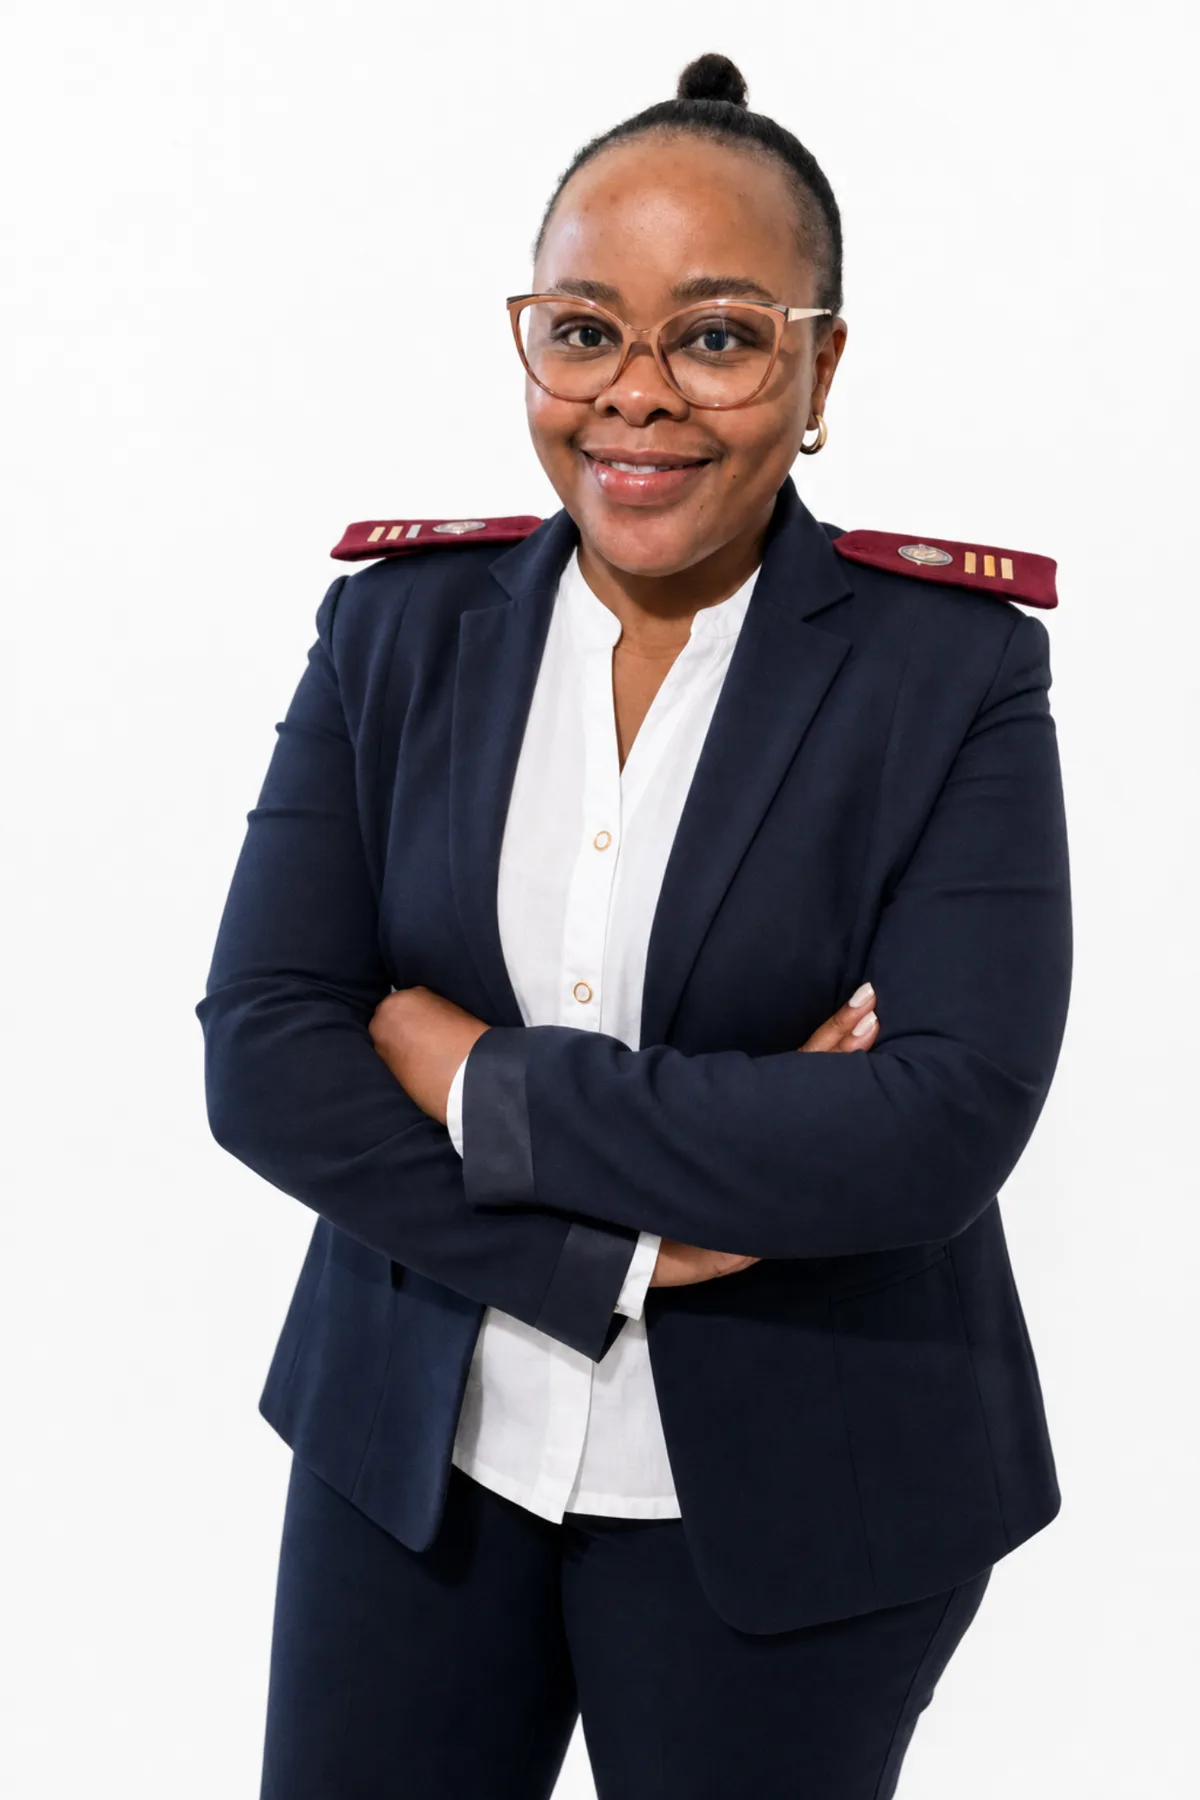
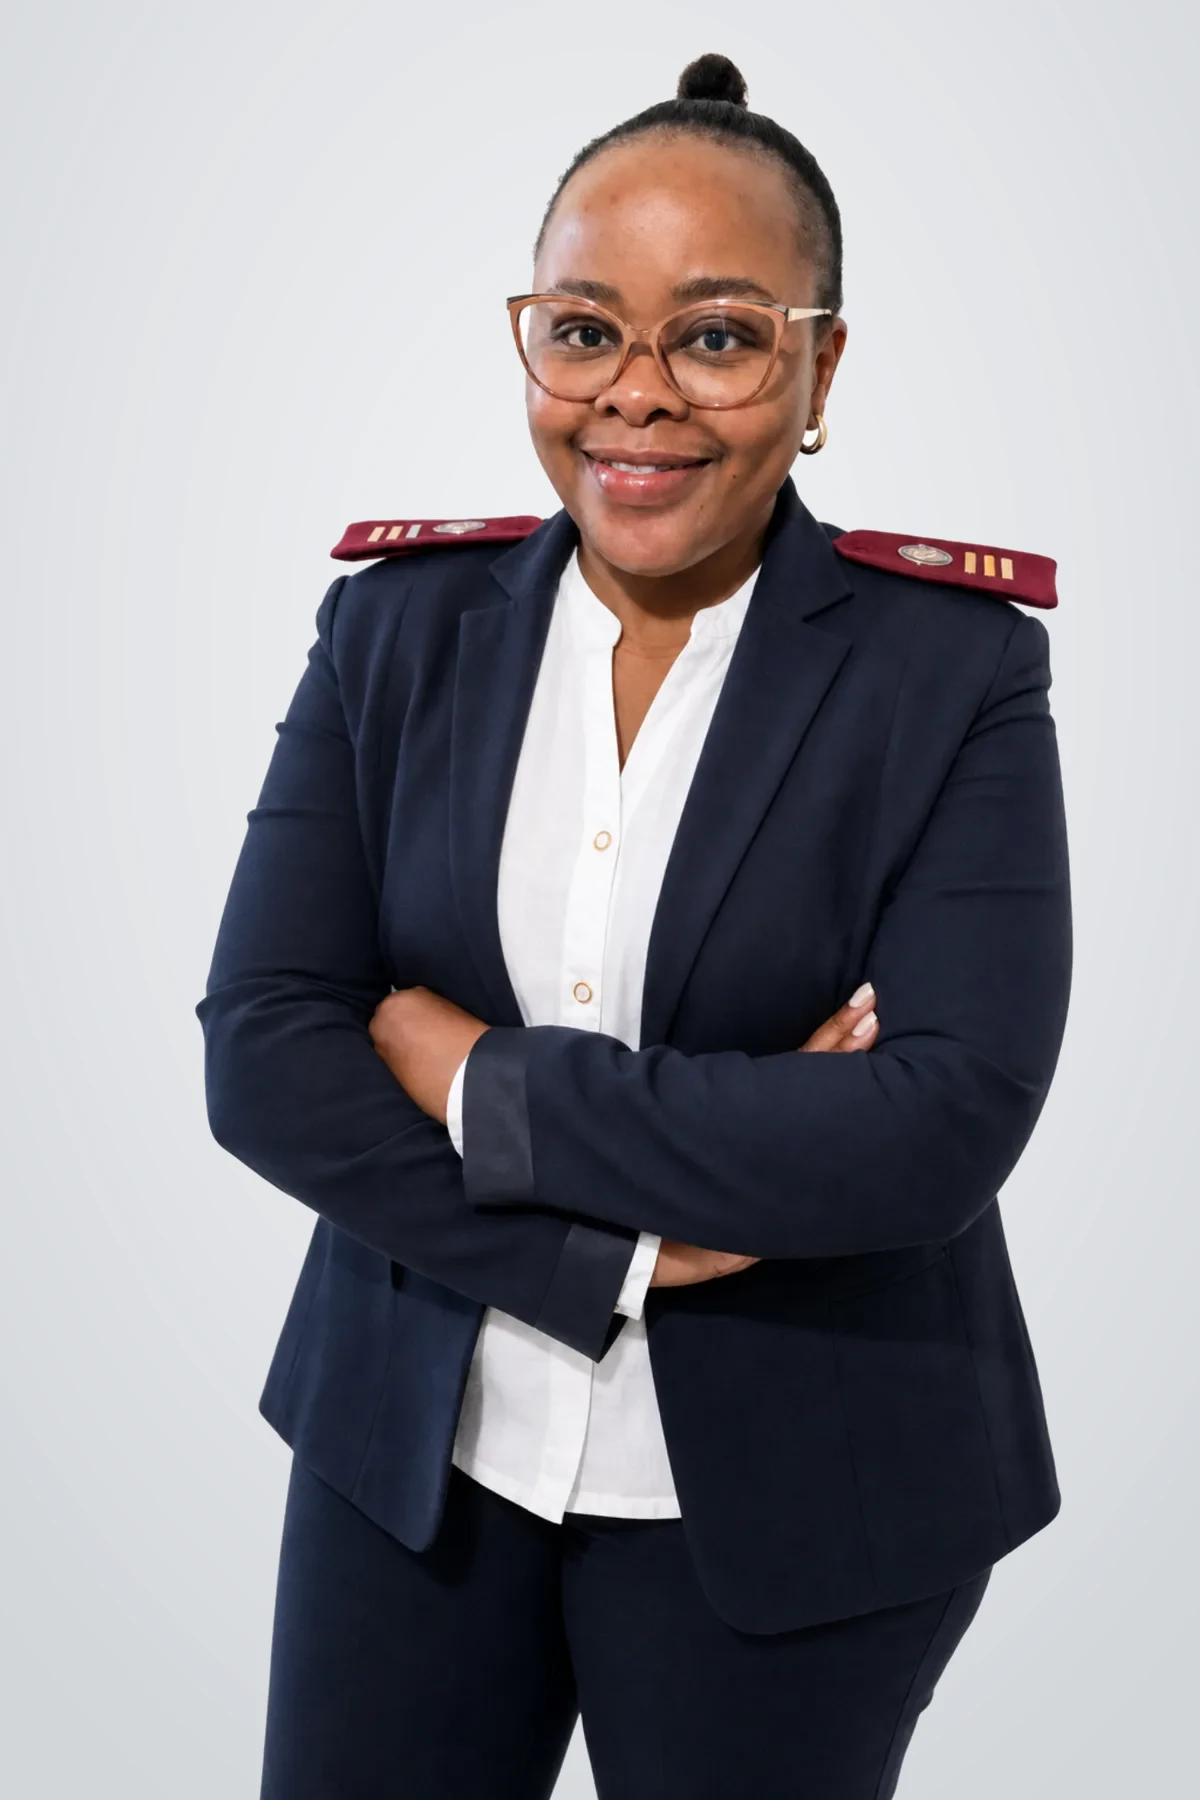
Polish pathway wheels, About/Services imagery, specialty card contrast, and Yonela studio backdrop.
Fix car wheel spin, swap About gallery photos, add blurred services intro wash, improve specialty-card readability, and give the leadership portrait a professional grey background.

Changed region(s): [[0.0, 0.0, 0.3083, 1.0], [0.6783, 0.0, 1.0, 1.0], [0.4625, 0.9644, 0.5242, 1.0]]

diff --git a/css/site.css b/css/site.css
@@ -1751,9 +1751,21 @@
     }
 
     .provider-card--has-bg {
-      background: #122433;
+      background: #0f1c28;
       border-color: color-mix(in srgb, var(--hairline) 55%, transparent);
       min-height: 240px;
+    }
+
+    .provider-card--has-bg .provider-card__body {
+      padding: 22px 22px 24px;
+      gap: 6px;
+      background: linear-gradient(
+        180deg,
+        transparent 0%,
+        rgba(10, 22, 32, 0.28) 18%,
+        rgba(10, 22, 32, 0.78) 58%,
+        rgba(10, 22, 32, 0.92) 100%
+      );
     }
 
     .provider-card__bg {
@@ -1770,8 +1782,8 @@
       height: 100%;
       object-fit: cover;
       object-position: center 42%;
-      transform: scale(1.04);
-      filter: saturate(0.92) contrast(1.05) brightness(0.88);
+      transform: scale(1.08);
+      filter: saturate(0.78) contrast(0.96) brightness(0.72) blur(2.5px);
     }
 
     .provider-card__bg::after {
@@ -1781,36 +1793,39 @@
       background:
         linear-gradient(
           180deg,
-          rgba(248, 249, 250, 0.72) 0%,
-          rgba(248, 249, 250, 0.42) 38%,
-          rgba(18, 36, 51, 0.55) 72%,
-          rgba(18, 36, 51, 0.82) 100%
+          rgba(12, 28, 40, 0.45) 0%,
+          rgba(12, 28, 40, 0.28) 32%,
+          rgba(12, 28, 40, 0.62) 62%,
+          rgba(8, 18, 28, 0.88) 100%
         ),
-        radial-gradient(ellipse 90% 70% at 50% 18%, rgba(248, 249, 250, 0.28), transparent 62%);
+        radial-gradient(ellipse 85% 70% at 50% 100%, rgba(8, 18, 28, 0.55), transparent 70%);
     }
 
     .provider-card--has-bg .provider-card__discipline {
-      color: #f4f7f8;
+      color: #f7fafb;
       font-family: 'Cormorant Garamond', var(--font-display);
       font-size: clamp(1.2rem, 2vw, 1.4rem);
       font-weight: 600;
       line-height: 1.15;
       letter-spacing: 0.01em;
+      text-shadow: 0 1px 2px rgba(0, 0, 0, 0.35);
     }
 
     .provider-card--has-bg .provider-card__status {
-      color: color-mix(in srgb, var(--mark-turquoise) 78%, #fff);
-      opacity: 0.95;
+      color: #9fe8dc;
+      opacity: 1;
+      text-shadow: 0 1px 2px rgba(0, 0, 0, 0.4);
     }
 
     .provider-card--has-bg .provider-card__note {
-      color: rgba(244, 247, 248, 0.86);
+      color: rgba(247, 250, 251, 0.92);
+      text-shadow: 0 1px 2px rgba(0, 0, 0, 0.35);
     }
 
     .provider-card--has-bg.revealed:hover .provider-card__bg img,
     .provider-card--has-bg.revealed:focus-within .provider-card__bg img {
-      transform: scale(1.08);
-      filter: saturate(1.02) contrast(1.06) brightness(0.94);
+      transform: scale(1.12);
+      filter: saturate(0.86) contrast(0.98) brightness(0.78) blur(2px);
       transition:
         transform 0.9s cubic-bezier(0.22, 0.61, 0.36, 1),
         filter 0.7s ease;
@@ -1828,6 +1843,10 @@
       .provider-card__bg img {
         transition: none;
         transform: none;
+      }
+
+      .provider-card__bg img {
+        filter: saturate(0.78) contrast(0.96) brightness(0.72) blur(2.5px);
       }
     }
 
@@ -4801,8 +4820,7 @@ body.has-hero-editorial .site-header .nav-links > a,
     .day-pathway__arm,
     .day-pathway__leg,
     .day-pathway__bed,
-    .day-pathway__car-body,
-    .day-pathway__car-wheel {
+    .day-pathway__car-body {
       stroke: currentColor;
       stroke-width: 1.6;
       stroke-linecap: round;
@@ -4818,8 +4836,17 @@ body.has-hero-editorial .site-header .nav-links > a,
       fill: color-mix(in srgb, currentColor 16%, transparent);
     }
 
-    .day-pathway__car-wheel {
+    .day-pathway__car-wheel circle {
       fill: color-mix(in srgb, currentColor 12%, transparent);
+      stroke: currentColor;
+      stroke-width: 1.6;
+    }
+
+    .day-pathway__car-spoke {
+      fill: none;
+      stroke: currentColor;
+      stroke-width: 1.35;
+      stroke-linecap: round;
     }
 
     .day-pathway__flow .day-pathway__pose {
@@ -4865,10 +4892,13 @@ body.has-hero-editorial .site-header .nav-links > a,
       animation: pathway-car-drive 0.5s ease-in-out infinite;
     }
 
+    /* Spin in place around each wheel hub — not around the car body. */
     .day-pathway__flow[data-pose="car-arrive"] .day-pathway__car-wheel,
-    .day-pathway__flow[data-pose="car"] .day-pathway__car-wheel {
+    .day-pathway__flow[data-pose="car"] .day-pathway__car-wheel,
+    .day-pathway__vignette--car .day-pathway__car-wheel {
+      transform-box: fill-box;
       transform-origin: center;
-      animation: pathway-car-wheel 0.45s linear infinite;
+      animation: pathway-car-wheel 0.55s linear infinite;
     }
 
     .day-pathway__flow .day-pathway__z {
@@ -6135,6 +6165,83 @@ body.has-hero-editorial .site-header .nav-links > a,
       padding-block: clamp(48px, 8vw, 72px);
     }
 
+    /* Services page intro — soft medical wash behind banner + day card */
+    .services-intro {
+      position: relative;
+      isolation: isolate;
+      overflow: hidden;
+      border-bottom: 1px solid var(--hairline);
+      background: var(--bg);
+    }
+
+    .services-intro__wash {
+      position: absolute;
+      inset: 0;
+      z-index: 0;
+      pointer-events: none;
+      overflow: hidden;
+    }
+
+    .services-intro__wash picture,
+    .services-intro__wash img {
+      display: block;
+      width: 100%;
+      height: 100%;
+      object-fit: cover;
+      object-position: 48% 32%;
+      transform: scale(1.08);
+      filter: saturate(0.72) contrast(0.98) brightness(1.08) blur(3.5px);
+    }
+
+    .services-intro__wash::after {
+      content: "";
+      position: absolute;
+      inset: 0;
+      background:
+        linear-gradient(
+          180deg,
+          rgba(248, 249, 250, 0.88) 0%,
+          rgba(248, 249, 250, 0.78) 42%,
+          rgba(248, 249, 250, 0.9) 100%
+        ),
+        linear-gradient(
+          105deg,
+          rgba(248, 249, 250, 0.82) 0%,
+          transparent 48%,
+          rgba(248, 249, 250, 0.55) 100%
+        );
+    }
+
+    .page--services .services-intro .page-banner--editorial {
+      position: relative;
+      z-index: 1;
+      background: transparent;
+      border-bottom: 0;
+      padding-bottom: calc(var(--space-unit) * 0.65);
+    }
+
+    .page--services .services-intro__content {
+      position: relative;
+      z-index: 1;
+      background: transparent;
+      padding-top: 0;
+      padding-bottom: clamp(48px, 8vw, 80px);
+    }
+
+    .page--services .services-intro .placeholder-note {
+      background: color-mix(in srgb, var(--surface) 92%, transparent);
+      -webkit-backdrop-filter: blur(10px);
+      backdrop-filter: blur(10px);
+      box-shadow: 0 18px 40px rgba(36, 61, 77, 0.06);
+    }
+
+    @media (prefers-reduced-motion: reduce) {
+      .services-intro__wash img {
+        filter: saturate(0.72) contrast(0.98) brightness(1.08) blur(3.5px);
+        transform: none;
+      }
+    }
+
     .page--editorial .page-links .btn-solid,
     .page--editorial .placeholder-note {
       border-radius: var(--radius);
@@ -6580,12 +6687,12 @@ body.has-hero-editorial .site-header .nav-links > a,
     }
 
     .about-story__frame--tall img {
-      object-position: 45% 30%;
+      object-position: 72% 28%;
       animation: about-frame-drift 16s ease-in-out infinite alternate;
     }
 
     .about-story__frame--wide img {
-      object-position: 50% 42%;
+      object-position: 50% 35%;
       animation: about-frame-drift-alt 18s ease-in-out infinite alternate;
     }
 
@@ -6649,7 +6756,8 @@ body.has-hero-editorial .site-header .nav-links > a,
       border-radius: var(--radius-lg);
       overflow: hidden;
       border: 1px solid var(--hairline);
-      background: var(--surface-2);
+      background:
+        radial-gradient(ellipse 70% 55% at 50% 35%, #f1f2f4 0%, #e4e6e9 55%, #d5d8dc 100%);
       box-shadow: 0 18px 40px rgba(36, 61, 77, 0.08);
     }
 

diff --git a/index.html b/index.html
@@ -140,8 +140,14 @@
                 <g class="day-pathway__pose day-pathway__pose--car-arrive">
                   <path class="day-pathway__car-body" d="M8 36h40c2 0 4 2 4 4v4H6v-4c0-2 1.5-4 2-4z" />
                   <path class="day-pathway__car-body" d="M16 36l4-8h16l5 8" />
-                  <circle class="day-pathway__car-wheel" cx="16" cy="46" r="3.4" />
-                  <circle class="day-pathway__car-wheel" cx="42" cy="46" r="3.4" />
+                  <g class="day-pathway__car-wheel">
+                    <circle cx="16" cy="46" r="3.4" />
+                    <path class="day-pathway__car-spoke" d="M16 42.6v6.8M12.6 46h6.8" />
+                  </g>
+                  <g class="day-pathway__car-wheel">
+                    <circle cx="42" cy="46" r="3.4" />
+                    <path class="day-pathway__car-spoke" d="M42 42.6v6.8M38.6 46h6.8" />
+                  </g>
                   <circle class="day-pathway__limb" cx="28" cy="30" r="2.4" />
                   <path class="day-pathway__limb" d="M28 32.5v4" />
                 </g>
@@ -181,8 +187,14 @@
                 <g class="day-pathway__pose day-pathway__pose--car">
                   <path class="day-pathway__car-body" d="M8 36h40c2 0 4 2 4 4v4H6v-4c0-2 1.5-4 2-4z" />
                   <path class="day-pathway__car-body" d="M16 36l4-8h16l5 8" />
-                  <circle class="day-pathway__car-wheel" cx="16" cy="46" r="3.4" />
-                  <circle class="day-pathway__car-wheel" cx="42" cy="46" r="3.4" />
+                  <g class="day-pathway__car-wheel">
+                    <circle cx="16" cy="46" r="3.4" />
+                    <path class="day-pathway__car-spoke" d="M16 42.6v6.8M12.6 46h6.8" />
+                  </g>
+                  <g class="day-pathway__car-wheel">
+                    <circle cx="42" cy="46" r="3.4" />
+                    <path class="day-pathway__car-spoke" d="M42 42.6v6.8M38.6 46h6.8" />
+                  </g>
                   <circle class="day-pathway__limb" cx="28" cy="30" r="2.4" />
                   <path class="day-pathway__limb" d="M28 32.5v4" />
                 </g>
@@ -202,8 +214,14 @@
                       <g class="day-pathway__pose day-pathway__pose--car">
                         <path class="day-pathway__car-body" d="M8 36h40c2 0 4 2 4 4v4H6v-4c0-2 1.5-4 2-4z" />
                         <path class="day-pathway__car-body" d="M16 36l4-8h16l5 8" />
-                        <circle class="day-pathway__car-wheel" cx="16" cy="46" r="3.4" />
-                        <circle class="day-pathway__car-wheel" cx="42" cy="46" r="3.4" />
+                        <g class="day-pathway__car-wheel">
+                          <circle cx="16" cy="46" r="3.4" />
+                          <path class="day-pathway__car-spoke" d="M16 42.6v6.8M12.6 46h6.8" />
+                        </g>
+                        <g class="day-pathway__car-wheel">
+                          <circle cx="42" cy="46" r="3.4" />
+                          <path class="day-pathway__car-spoke" d="M42 42.6v6.8M38.6 46h6.8" />
+                        </g>
                         <circle class="day-pathway__limb" cx="28" cy="30" r="2.4" />
                         <path class="day-pathway__limb" d="M28 32.5v4" />
                       </g>
@@ -311,8 +329,14 @@
                       <g class="day-pathway__pose day-pathway__pose--car">
                         <path class="day-pathway__car-body" d="M8 36h40c2 0 4 2 4 4v4H6v-4c0-2 1.5-4 2-4z" />
                         <path class="day-pathway__car-body" d="M16 36l4-8h16l5 8" />
-                        <circle class="day-pathway__car-wheel" cx="16" cy="46" r="3.4" />
-                        <circle class="day-pathway__car-wheel" cx="42" cy="46" r="3.4" />
+                        <g class="day-pathway__car-wheel">
+                          <circle cx="16" cy="46" r="3.4" />
+                          <path class="day-pathway__car-spoke" d="M16 42.6v6.8M12.6 46h6.8" />
+                        </g>
+                        <g class="day-pathway__car-wheel">
+                          <circle cx="42" cy="46" r="3.4" />
+                          <path class="day-pathway__car-spoke" d="M42 42.6v6.8M38.6 46h6.8" />
+                        </g>
                         <circle class="day-pathway__limb" cx="28" cy="30" r="2.4" />
                         <path class="day-pathway__limb" d="M28 32.5v4" />
                       </g>

diff --git a/services.html b/services.html
@@ -29,7 +29,7 @@
   <script src="js/schema.js"></script>
   <script>FDH_renderSchema('https://floridadayhospital.co.za/services.html', 'Services', [{ name: 'Home', url: 'https://floridadayhospital.co.za/' }, { name: 'Services', url: 'https://floridadayhospital.co.za/services.html' }]);</script>
 </head>
-<body class="page--editorial">
+<body class="page--editorial page--services">
   <a class="skip-link" href="#main-content">Skip to content</a>
 
   <header class="site-header is-scrolled" id="site-header">
@@ -74,16 +74,24 @@
     </nav>
   </header>
   <main id="main-content">
-    <header class="page-banner page-banner--editorial wrap">
-      <h1 class="t-h2">Our services</h1>
-    </header>
-    <section class="page-content page-content--flush-bottom">
-      <div class="wrap">
-        <div class="placeholder-note">
-          <p class="t-h3">What your day looks like</p>
-          <p class="t-small"><strong>Before</strong> — your referring doctor or specialist confirms the procedure and sends you to us. We handle booking and, where needed, medical aid authorisation.</p>
-          <p class="t-small"><strong>On the day</strong> — you arrive at the agreed time, are prepared for theatre, undergo your procedure, and recover under nursing supervision.</p>
-          <p class="t-small"><strong>After</strong> — once your specialist is satisfied, you are discharged home the same day with aftercare guidance from your physician.</p>
+    <section class="services-intro" aria-label="Our services">
+      <div class="services-intro__wash" aria-hidden="true">
+        <picture>
+          <source type="image/webp" srcset="assets/photos/providers-960.webp 960w, assets/photos/providers-1280.webp 1280w, assets/photos/providers-1920.webp 1920w" sizes="100vw">
+          <img src="assets/photos/providers-1280.webp" alt="" width="1280" height="853" loading="eager" decoding="async">
+        </picture>
+      </div>
+      <header class="page-banner page-banner--editorial wrap">
+        <h1 class="t-h2">Our services</h1>
+      </header>
+      <div class="page-content page-content--flush-bottom services-intro__content">
+        <div class="wrap">
+          <div class="placeholder-note">
+            <p class="t-h3">What your day looks like</p>
+            <p class="t-small"><strong>Before</strong> — your referring doctor or specialist confirms the procedure and sends you to us. We handle booking and, where needed, medical aid authorisation.</p>
+            <p class="t-small"><strong>On the day</strong> — you arrive at the agreed time, are prepared for theatre, undergo your procedure, and recover under nursing supervision.</p>
+            <p class="t-small"><strong>After</strong> — once your specialist is satisfied, you are discharged home the same day with aftercare guidance from your physician.</p>
+          </div>
         </div>
       </div>
     </section>

diff --git a/about.html b/about.html
@@ -96,8 +96,8 @@
 
           <figure class="about-story__inline about-story__inline--mobile" aria-hidden="true">
             <picture>
-              <source type="image/webp" srcset="assets/photos/pathway-accent-960.webp 960w, assets/photos/pathway-accent-1280.webp 1280w" sizes="(max-width: 720px) 100vw, 420px">
-              <img src="assets/photos/pathway-accent-1280.webp" alt="" width="1280" height="853" loading="lazy" decoding="async">
+              <source type="image/webp" srcset="assets/photos/hero-960.webp 960w, assets/photos/hero-1280.webp 1280w" sizes="(max-width: 720px) 100vw, 420px">
+              <img src="assets/photos/hero-1280.webp" alt="" width="1280" height="853" loading="lazy" decoding="async">
             </picture>
           </figure>
 
@@ -116,14 +116,14 @@
         <aside class="about-story__gallery" aria-hidden="true">
           <figure class="about-story__frame about-story__frame--tall">
             <picture>
-              <source type="image/webp" srcset="assets/photos/pathway-accent-960.webp 960w, assets/photos/pathway-accent-1280.webp 1280w, assets/photos/pathway-accent-1920.webp 1920w" sizes="(min-width: 900px) 28vw, 100vw">
-              <img src="assets/photos/pathway-accent-1280.webp" alt="" width="1280" height="853" loading="lazy" decoding="async">
+              <source type="image/webp" srcset="assets/photos/hero-960.webp 960w, assets/photos/hero-1280.webp 1280w, assets/photos/hero-1920.webp 1920w" sizes="(min-width: 900px) 28vw, 100vw">
+              <img src="assets/photos/hero-1280.webp" alt="" width="1280" height="853" loading="lazy" decoding="async">
             </picture>
           </figure>
           <figure class="about-story__frame about-story__frame--wide">
             <picture>
-              <source type="image/webp" srcset="assets/photos/booking-480.webp 480w, assets/photos/booking-800.webp 800w, assets/photos/booking-1200.webp 1200w" sizes="(min-width: 900px) 26vw, 100vw">
-              <img src="assets/photos/booking-800.webp" alt="" width="800" height="600" loading="lazy" decoding="async">
+              <source type="image/webp" srcset="assets/photos/home-banner-960.webp 960w, assets/photos/home-banner-1280.webp 1280w, assets/photos/home-banner-1920.webp 1920w" sizes="(min-width: 900px) 26vw, 100vw">
+              <img src="assets/photos/home-banner-1280.webp" alt="" width="1280" height="853" loading="lazy" decoding="async">
             </picture>
           </figure>
         </aside>